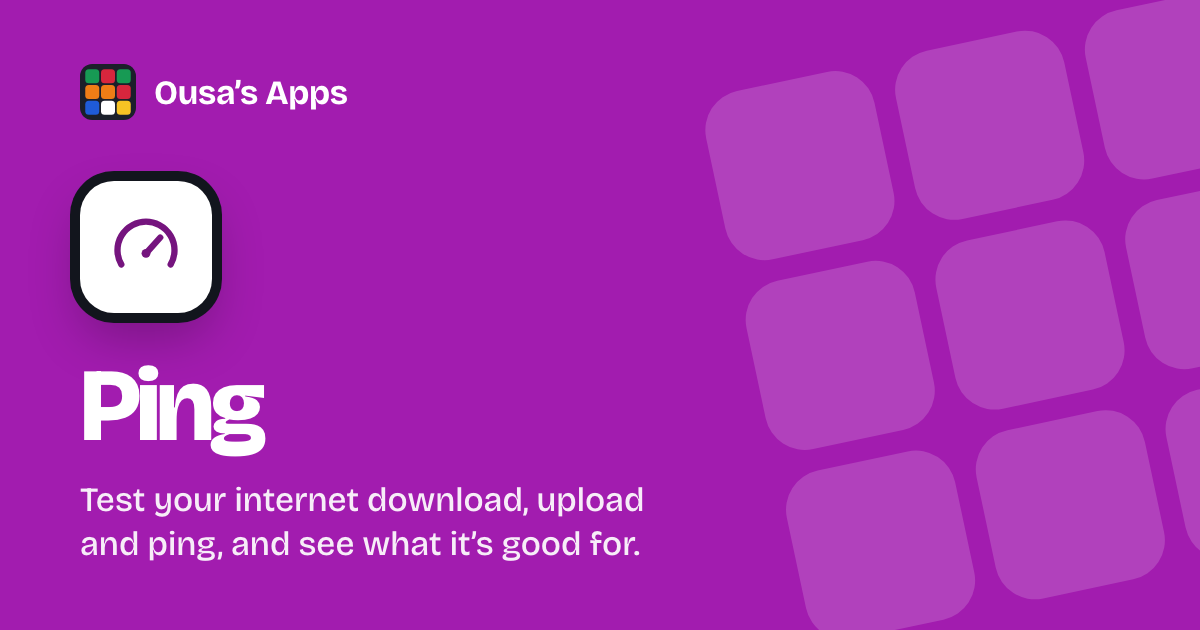
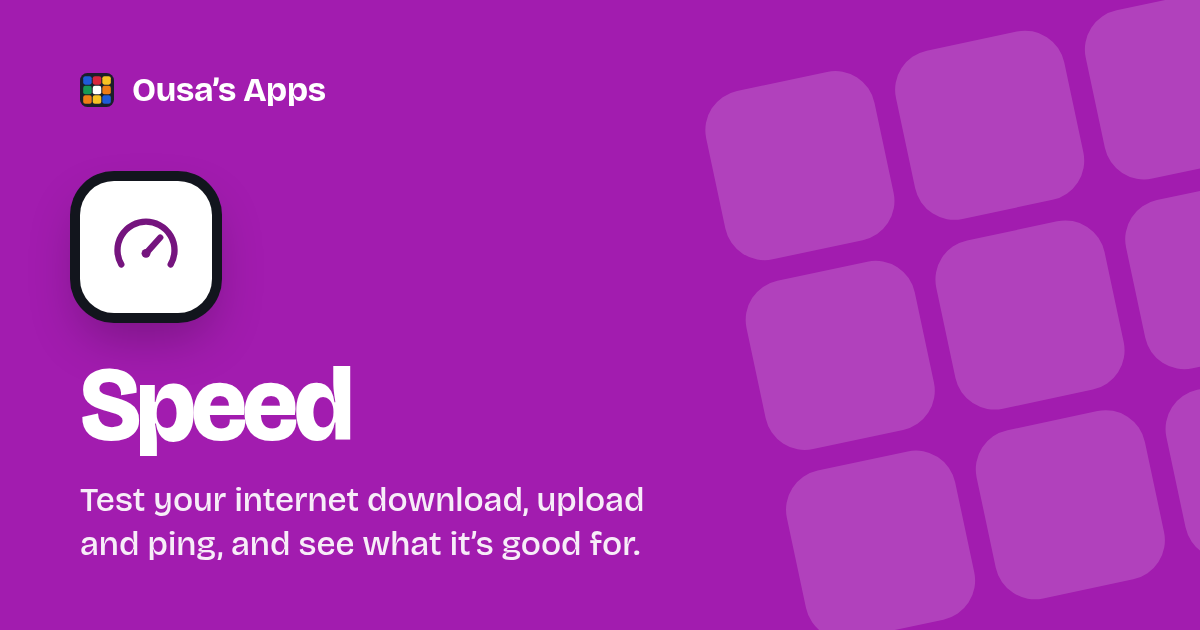
Give every app a plain one-word name, and redraw the share images
Names now say what each app does (QR, Phone, Compress, Budget, Speed...). Page titles lead
with what people search for again, since a one-word name adds nothing in a search result.

diff --git a/app/utils/tools.ts b/app/utils/tools.ts
@@ -37,108 +37,108 @@ export interface Tool {
 export const TOOLS: Tool[] = [
   {
     to: '/qr',
-    name: 'Scan Me',
+    name: 'QR',
     summary: 'Turn a link or text into a QR code you can download.',
     color: 'var(--blue)',
     icon: 'qr',
-    seoTitle: 'Scan Me: free QR code generator with logo',
+    seoTitle: 'Free QR code generator with logo',
     description: 'Make a QR code for any link or text, add your logo, colours and a frame, check it scans, then download it as PNG or SVG. Free, no sign-up.'
   },
   {
     to: '/phone',
-    name: 'Who’s Calling',
+    name: 'Phone',
     summary: 'Check a Cambodian number and see its network.',
     color: 'var(--red)',
     icon: 'phone',
-    seoTitle: 'Who’s Calling: Cambodian phone number checker',
+    seoTitle: 'Cambodian phone number checker',
     description: 'Check any Cambodian phone number: see if it’s Smart, Cellcard, Metfone or a landline, catch missing digits, and format it for WhatsApp or Telegram.',
     demo: true
   },
   {
     to: '/compress',
-    name: 'Squeeze',
+    name: 'Compress',
     summary: 'Make images and PDFs smaller without uploading them.',
     color: 'var(--orange)',
     buttonColor: 'var(--orange-btn)',
     icon: 'compress',
-    seoTitle: 'Squeeze: compress images and PDFs in your browser',
+    seoTitle: 'Compress images and PDFs in your browser',
     description: 'Make JPG, PNG, WebP and PDF files smaller without uploading them. Keep PDF text sharp or shrink scans, compare before and after, and download.',
     demo: true
   },
   {
     to: '/text',
-    name: 'Wordsmith',
+    name: 'Text',
     summary: 'Change text to any case, or compare two versions and see exactly what changed.',
     color: 'var(--yellow)',
     onColor: '#1b1f2a',
     icon: 'case',
-    seoTitle: 'Wordsmith: text case converter and text compare',
+    seoTitle: 'Text case converter and text compare',
     description: 'Change text to lowercase, UPPERCASE, Title Case or Sentence case, or compare two texts side by side and see every word added, removed or changed.',
     demo: true
   },
   {
     to: '/password',
-    name: 'Keyring',
+    name: 'Passwords',
     summary: 'Make strong passwords and save them, encrypted on this device.',
     color: 'var(--green)',
     buttonColor: 'var(--green-btn)',
     icon: 'password',
-    seoTitle: 'Keyring: strong password generator and saver',
+    seoTitle: 'Strong password generator and saver',
     description: 'Generate strong passwords, see how long they’d take to crack, and save them in an encrypted vault that only you can unlock.'
   },
   {
     to: '/exchange',
-    name: 'Riel Deal',
+    name: 'Exchange',
     summary: 'See if an exchange rate makes you gain or lose money.',
     color: 'var(--teal)',
     buttonColor: 'var(--teal-btn)',
     icon: 'exchange',
-    seoTitle: 'Riel Deal: KHR to USD exchange rate calculator',
+    seoTitle: 'KHR to USD exchange rate calculator',
     description: 'See today’s riel to dollar rate and find out if a money changer’s rate makes you gain or lose money on your exchange.'
   },
   {
     to: '/things',
-    name: 'Stash',
+    name: 'Things',
     summary: 'Keep track of what you own, what you paid and what it’s all worth.',
     color: 'var(--plum)',
     icon: 'things',
     group: 'Life',
-    seoTitle: 'Stash: track what your stuff is worth',
+    seoTitle: 'Things I own: track what your stuff is worth',
     description: 'Keep a list of your phone, laptop and everything else you own, what you paid, and an estimate of what it’s worth today.',
     demo: true
   },
   {
     to: '/eat',
-    name: 'Hungry?',
+    name: 'Food',
     summary: 'Swipe through your saved foods and places until one sounds good.',
     color: 'var(--pink)',
     buttonColor: 'var(--pink-btn)',
     icon: 'eat',
     group: 'Life',
-    seoTitle: 'Hungry? What should I eat? Food picker',
+    seoTitle: 'What should I eat? Food picker',
     description: 'Can’t decide what to eat? Swipe through your favourite foods and places until one sounds good, with your own photos.',
     demo: true
   },
   {
     to: '/weight',
-    name: 'Scale',
+    name: 'Weight',
     summary: 'Log your weight and see the trend.',
     color: 'var(--lime)',
     buttonColor: 'var(--lime-btn)',
     icon: 'weight',
     group: 'Life',
-    seoTitle: 'Scale: weight tracker with trend chart',
+    seoTitle: 'Weight tracker with trend chart',
     description: 'Log your weight and see the trend over weeks and months on a clear chart, with your progress toward a goal.',
     demo: true
   },
   {
     to: '/budget',
-    name: 'Wallet',
+    name: 'Budget',
     summary: 'Track spending, budgets, bills, income and savings goals, in dollars or riel.',
     color: '#047857',
     icon: 'budget',
     group: 'Life',
-    seoTitle: 'Wallet: budget planner and expense tracker in dollars and riel',
+    seoTitle: 'Budget planner and expense tracker in dollars and riel',
     description: 'Log daily expenses and income in dollars or riel, set monthly budgets, track recurring bills and savings goals, and see where your money goes.',
     demo: true
   },
@@ -156,102 +156,102 @@ export const TOOLS: Tool[] = [
   },
   {
     to: '/bookmarks',
-    name: 'Pinboard',
+    name: 'Bookmarks',
     summary: 'Save links in folders, and pin the ones you open every day.',
     color: 'var(--rust)',
     icon: 'bookmarks',
     group: 'Life',
-    seoTitle: 'Pinboard: bookmark manager with folders',
+    seoTitle: 'Bookmark manager with folders',
     description: 'Save links in nested folders with notes, pin the sites you open every day, and import or export your browser bookmarks.',
     demo: true
   },
   {
     to: '/notes',
-    name: 'Jot',
+    name: 'Notes',
     summary: 'Write things down fast, then find them again.',
     color: 'var(--sky)',
     icon: 'notes',
     group: 'Life',
-    seoTitle: 'Jot: fast personal notes with folders, checklists and links',
+    seoTitle: 'Fast personal notes with folders, checklists and links',
     description: 'Quick notes and longer ones with checklists, folders, tags, links between notes and version history. Works offline and syncs to your other devices.',
     demo: true
   },
   {
     to: '/battery',
-    name: 'Juice',
+    name: 'Battery',
     summary: 'See how much of your phone battery is really left compared with when it was new.',
     color: 'var(--cyan)',
     icon: 'battery',
-    seoTitle: 'Juice: phone battery health calculator',
+    seoTitle: 'Phone battery health calculator',
     description: 'See how much of your phone battery is really left: capacity in mAh, wear, and hours of screen time, for iPhone, Samsung, Pixel and more.'
   },
   {
     to: '/salary',
-    name: 'Payday',
+    name: 'Salary',
     summary: 'Work out what a raise is really worth after Cambodian salary tax.',
     color: 'var(--slate)',
     icon: 'salary',
-    seoTitle: 'Payday: Cambodia salary tax and raise calculator',
+    seoTitle: 'Cambodia salary tax and raise calculator',
     description: 'Work out your take-home pay under Cambodian Tax on Salary, and how much of a raise you really keep after tax, overtime and deductions.'
   },
   {
     to: '/speed',
-    name: 'Ping',
+    name: 'Speed',
     summary: 'Test your internet download, upload and ping, and see what it’s good for.',
     color: '#a21caf',
     icon: 'speed',
-    seoTitle: 'Ping: internet speed test',
+    seoTitle: 'Internet speed test',
     description: 'Test your internet speed: download, upload, ping and jitter in Mbps, what your connection is good for, and how close you get to your plan.'
   },
   {
     to: '/claude',
-    name: 'Tokens',
+    name: 'Claude',
     summary: 'What you spend on the Claude API, and how much you use Claude Code.',
     color: '#c2410c',
     icon: 'claude',
-    seoTitle: 'Tokens: Claude API spend and Claude Code usage',
+    seoTitle: 'Claude API spend and Claude Code usage',
     description: 'See your Claude API spend and tokens by day and model from Anthropic’s Usage and Cost reports, and your Claude Code sessions, tokens and estimated cost by project.',
     // Nothing of yours is saved here: the Admin key stays in the browser and the logs stay on your computer
     readOnly: true
   },
   {
     to: '/gold',
-    name: 'Chi',
+    name: 'Gold',
     summary: 'Live gold price in chi and damlung, and what your gold is worth now.',
     color: 'var(--gold)',
     onColor: '#1b1f2a',
     icon: 'gold',
     group: 'Life',
-    seoTitle: 'Chi: gold price in chi and damlung today',
+    seoTitle: 'Gold price in chi and damlung today',
     description: 'Live gold price per chi, damlung and gram for Cambodia, a gold unit converter, and what your gold purchases are worth now.',
     demo: true
   },
   {
     to: '/days',
-    name: 'Day Math',
+    name: 'Days',
     summary: 'Count the days between two dates, add days or working days to one, or work out hours between two times.',
     color: 'var(--brown)',
     icon: 'days',
-    seoTitle: 'Day Math: days between dates, working days and hours',
+    seoTitle: 'Days between dates, working days and hours',
     description: 'Count the days, weeks and working days between two dates, add days or working days skipping Cambodian holidays, and count hours between two times.'
   },
   {
     to: '/focus',
-    name: 'Tomato',
+    name: 'Focus',
     summary: 'Work in 25-minute focus sessions with short breaks in between.',
     color: '#e11d48',
     icon: 'focus',
-    seoTitle: 'Tomato: Pomodoro focus timer',
+    seoTitle: 'Pomodoro focus timer',
     description: 'A free Pomodoro timer: 25 minutes of focus, then a short break, and a longer one every fourth session. Set your own lengths, with a sound when time is up.'
   },
   {
     to: '/color',
-    name: 'Swatch',
+    name: 'Color',
     summary: 'Pick a colour, copy it as HEX, RGB or HSL, check its contrast, and make gradients, tints and shades.',
     color: '#4f46e5',
     gradient: 'linear-gradient(135deg, #f43f5e 0%, #8b5cf6 50%, #0ea5e9 100%)',
     icon: 'color',
-    seoTitle: 'Swatch: color picker, contrast checker and palette generator',
+    seoTitle: 'Color picker, contrast checker and gradients',
     description: 'Pick or paste a colour, copy it as HEX, RGB or HSL, check text contrast against WCAG AA and AAA, make CSS gradients, and get tints and shades to copy.'
   },
   {
@@ -267,7 +267,7 @@ export const TOOLS: Tool[] = [
   },
   {
     to: '/cv',
-    name: 'Ousa',
+    name: 'CV',
     summary: 'My CV: UX/UI, web design and project management, from discovery to delivery.',
     color: '#7c3aed',
     gradient: 'linear-gradient(135deg, #b06cf7 0%, #7c3aed 55%, #5b21b6 100%)',

diff --git a/app/components/GaugeGallery.vue b/app/components/GaugeGallery.vue
@@ -82,7 +82,7 @@ const EXAMPLES: Example[] = [
   {
     id: 'progress',
     title: 'Progress arc',
-    use: 'A share of something, with the number in the middle. Wallet, Squeeze, Stash, Scale goal, Renewals limit.',
+    use: 'A share of something, with the number in the middle. Budget, Compress, Things, Weight goal, Renewals limit.',
     code: `<Gauge :value="share" :min="0" :max="1" :start-angle="45" :end-angle="315"
   :radius="200" :padding="22" fit="content" transition :initial-value="0">
   <GaugeTrack :width="34" color="var(--ink)" :opacity="0.08" />
@@ -93,7 +93,7 @@ const EXAMPLES: Example[] = [
   {
     id: 'zones',
     title: 'Needle on bands',
-    use: 'A reading against bands that mean something. Juice health, Keyring strength.',
+    use: 'A reading against bands that mean something. Battery health, Passwords strength.',
     code: `<Gauge :value="health" :min="50" :max="100" :start-angle="90" :end-angle="270"
   :radius="200" :padding="34" fit="content" transition :initial-value="50">
   <GaugeZones :zones="[{ to: 70, color: 'var(--red)' }, { to: 80, color: 'var(--orange)' },
@@ -107,7 +107,7 @@ const EXAMPLES: Example[] = [
   {
     id: 'centred',
     title: 'Centred on zero',
-    use: 'Better or worse than a reference, with “about the same” in the middle. Riel Deal.',
+    use: 'Better or worse than a reference, with “about the same” in the middle. Exchange.',
     code: `<Gauge :value="percent" :min="-2" :max="2" :start-angle="90" :end-angle="270"
   :radius="200" :padding="64" fit="content" transition :initial-value="0">
   <GaugeZones :zones="[{ to: -0.1, color: 'var(--red)' }, { to: 0.1, color: 'var(--ink-3)' },
@@ -135,7 +135,7 @@ const EXAMPLES: Example[] = [
   {
     id: 'ring',
     title: 'Full ring',
-    use: 'Progress that closes a circle; put words in the middle. Countdown, Payday.',
+    use: 'Progress that closes a circle; put words in the middle. Countdown, Salary.',
     code: `<Gauge :value="progress" :min="0" :max="1" :start-angle="180" :end-angle="540"
   :radius="200" :padding="24" transition :initial-value="0">
   <GaugeTrack :width="40" color="var(--ink)" :opacity="0.1" />
@@ -146,7 +146,7 @@ const EXAMPLES: Example[] = [
   {
     id: 'range',
     title: 'Needle in a range',
-    use: 'Where a value sits between a low and a high. Chi’s price range.',
+    use: 'Where a value sits between a low and a high. Gold’s price range.',
     code: `<Gauge :value="price" :min="low" :max="high" :start-angle="90" :end-angle="270"
   :radius="200" :padding="26" fit="content" transition>
   <GaugeTrack :width="22" color="var(--ink)" :opacity="0.08" />

diff --git a/app/pages/text.vue b/app/pages/text.vue
@@ -93,7 +93,7 @@ onBeforeUnmount(() => clearTimeout(copiedTimer))
       <SettingChoice v-model="textPrefs.tab" title="Open on" :options="[{ value: 'case', label: 'Change case' }, { value: 'compare', label: 'Compare' }]" />
       <SettingChoice v-model="textPrefs.mode" title="Change text to" description="The case picked when you open the app." :options="CASE_MODES" />
     </template>
-    <div class="tabs segmented" role="radiogroup" aria-label="Wordsmith">
+    <div class="tabs segmented" role="radiogroup" aria-label="Text">
       <label :class="{ active: tab === 'case' }">
         <input type="radio" name="text-tool" :checked="tab === 'case'" @change="setTab('case')">Change case
       </label>

diff --git a/app/pages/gold.vue b/app/pages/gold.vue
@@ -895,7 +895,7 @@ const PURITIES: { value: Purity, label: string }[] = [
       </div>
 
       <!-- Phones only (CSS): the bar of tabs at the foot of the screen; the bulk bar takes its place while selecting -->
-      <nav v-if="!sel.selecting" class="tab-bar" aria-label="Chi">
+      <nav v-if="!sel.selecting" class="tab-bar" aria-label="Gold">
         <button v-for="t in TABS" :key="t" type="button" :class="{ active: tab === t }" :aria-current="tab === t ? 'page' : undefined" @click="pickTab(t)">
           <AppIcon :name="t === 'price' ? 'trending-up' : t === 'gold' ? 'coins' : 'scale'" />
           <span>{{ t === 'price' ? w.tabPrice : t === 'gold' ? w.myGold : w.tabUnits }}</span>

diff --git a/app/utils/backup.ts b/app/utils/backup.ts
@@ -16,7 +16,7 @@ export const BACKUP_SECTIONS: BackupSection[] = [
   { name: 'note-folders', label: 'Note folders', app: '/notes' },
   { name: 'note-templates', label: 'Note templates', app: '/notes' },
   { name: 'note-versions', label: 'Note version history', app: '/notes' },
-  { name: 'things', label: 'Stash', app: '/things' },
+  { name: 'things', label: 'Things', app: '/things' },
   { name: 'renewals', label: 'Renewals', app: '/renewals' },
   { name: 'countdown', label: 'Countdowns', app: '/countdown' },
   { name: 'contacts', label: 'Contacts', app: '/phone' },

diff --git a/app/utils/keyboards.ts b/app/utils/keyboards.ts
@@ -78,7 +78,7 @@ interface AppKeyboard {
 }
 
 // Search on Home and in the Recycle Bin: tap an app's name to find it, or what was deleted from it
-const APP_NAMES: KeySet = { title: 'Apps', keys: words('Jot', 'Pinboard', 'Stash', 'Renewals', 'Countdown', 'Chi', 'Scale', 'Wallet', 'Ping') }
+const APP_NAMES: KeySet = { title: 'Apps', keys: words('Jot', 'Shelf', 'Stash', 'Renewals', 'Countdown', 'Chi', 'Scale', 'Wallet', 'Fast Lane') }
 
 const APPS: Record<string, AppKeyboard> = {
   '/qr': {

diff --git a/app/pages/days.vue b/app/pages/days.vue
@@ -158,7 +158,7 @@ async function copy(text: string) {
       <SettingRow v-model="prefs.includeEnd" title="Include the end day" description="1 to 3 May counts as 3 days instead of 2." />
     </template>
 
-    <div class="tabs" role="tablist" aria-label="Day Math">
+    <div class="tabs" role="tablist" aria-label="Days">
       <button
         v-for="t in TABS"
         :id="`tab-${t.value}`"

diff --git a/app/utils/search.ts b/app/utils/search.ts
@@ -64,7 +64,7 @@ export const SEARCH_SOURCES: Source[] = [
   {
     collection: 'things',
     app: '/things',
-    group: 'Stash',
+    group: 'Things',
     title: t => t.name,
     subtitle: t => [typeOf(t.category).label, t.company, t.year].filter(Boolean).join(' · '),
     text: t => [t.category, t.type, t.company, t.model, t.generation, t.notes]

diff --git a/app/pages/battery.vue b/app/pages/battery.vue
@@ -445,7 +445,7 @@ async function shareResult() {
   const url = shareUrl()
   if (typeof navigator.share === 'function') {
     try {
-      await navigator.share({ title: 'Juice', text, url })
+      await navigator.share({ title: 'Battery', text, url })
       sfx.play('success')
       return
     } catch (e) {

diff --git a/app/pages/things.vue b/app/pages/things.vue
@@ -554,7 +554,7 @@ function del(t: Thing) {
 
     <TransferDialog
       :open="transferOpen"
-      title="Stash"
+      title="Things"
       collection="things"
       app="/things"
       :items="items"
